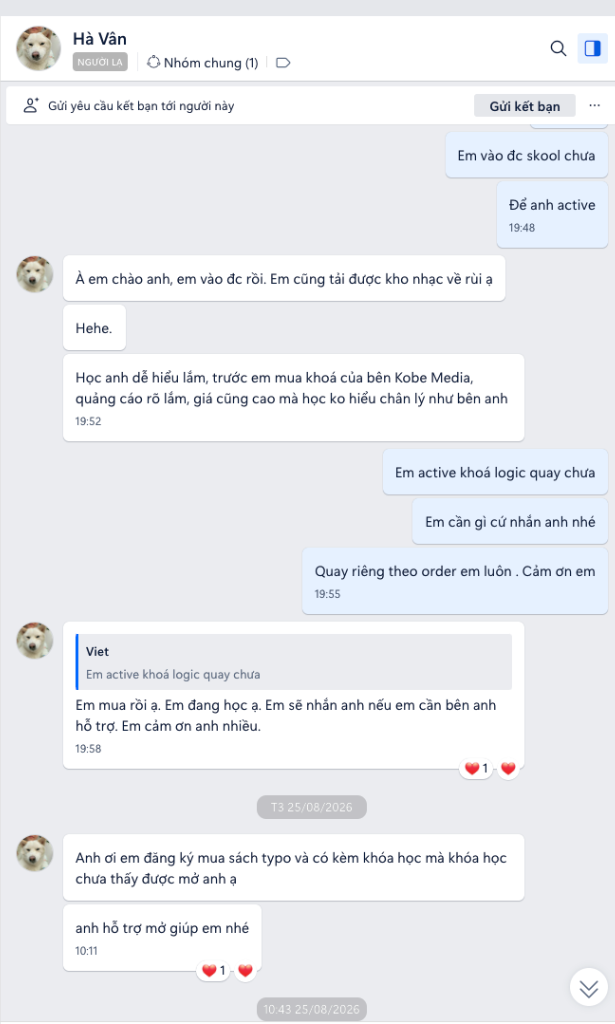
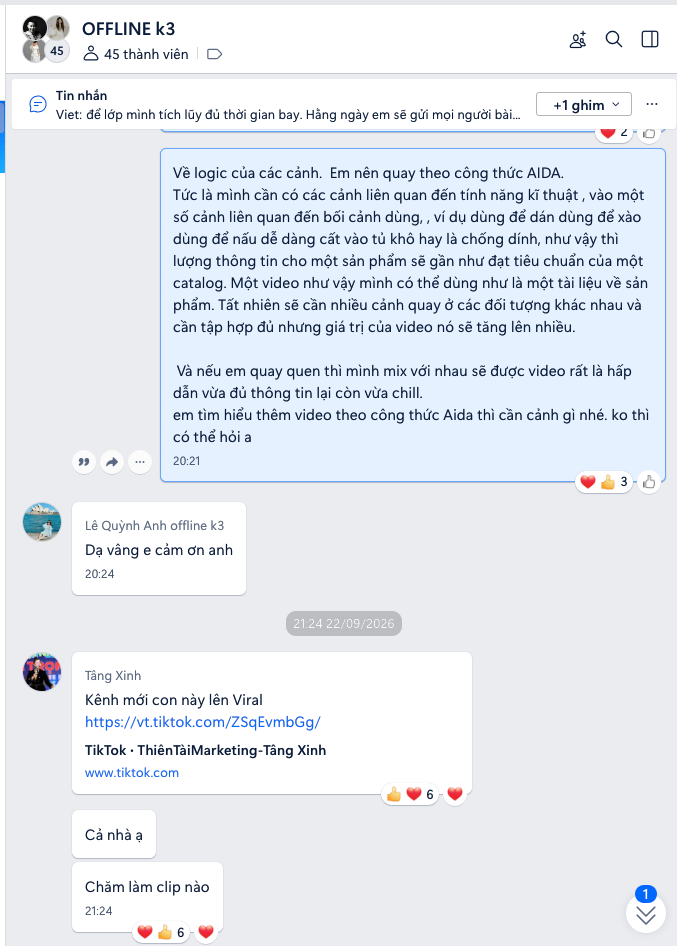
Update image and fix scroll ResizeObserver error popup

diff --git a/index.html b/index.html
@@ -113,6 +113,9 @@
     </div>
     <script>
       window.addEventListener('error', function(e) {
+        if (e.message && (e.message.includes('ResizeObserver') || e.message.includes('Script error'))) {
+          return;
+        }
         var display = document.getElementById('error-display');
         var message = document.getElementById('error-message');
         if (display && message) {
